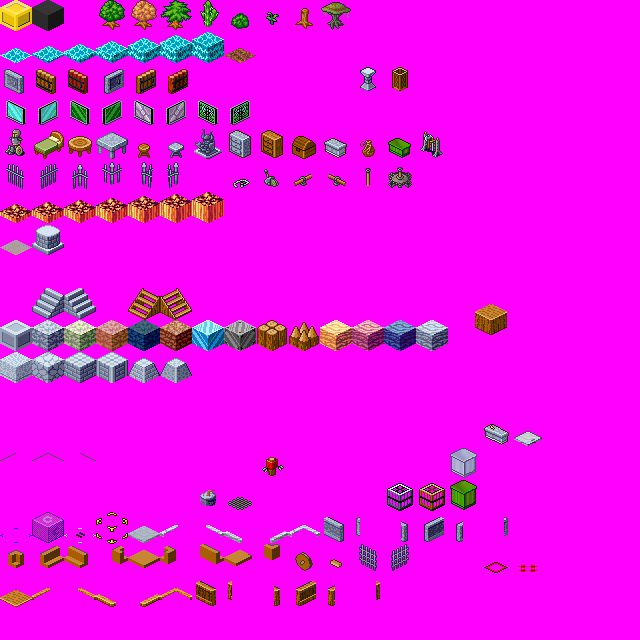
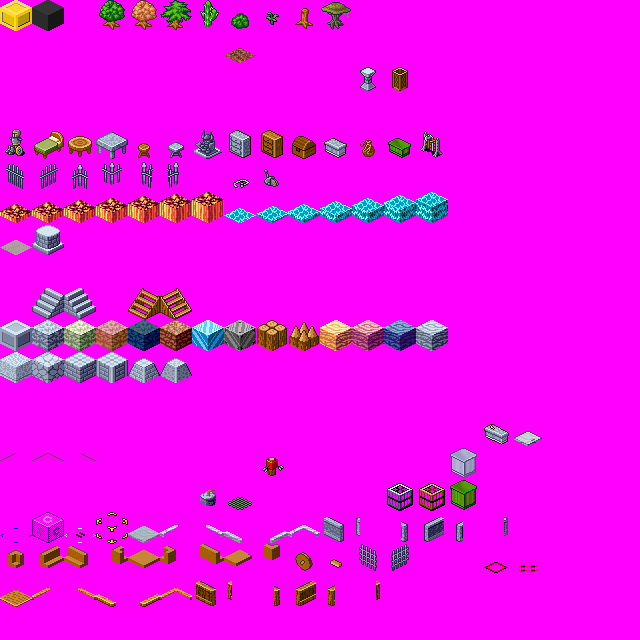
Rearranged liquids in objects.png. Moved doors and windows to doorsAndWindows.png. Changed around door and window configs. Fixed an error in gem windows.

diff --git a/SpriteMaps.h b/SpriteMaps.h
@@ -38,16 +38,7 @@ enum enumFloorSprites{
   SPRITEOBJECT_SAPLING = 8,
   SPRITEOBJECT_DEAD_TREE = 9,
   SPRITEOBJECT_TREE_TOWERCAP = 10,
-
-	SPRITEOBJECT_WATERLEVEL1 = 20,
-	SPRITEOBJECT_WATERLEVEL2 = 21,
-	SPRITEOBJECT_WATERLEVEL3 = 22,
-	SPRITEOBJECT_WATERLEVEL4 = 23,
-	SPRITEOBJECT_WATERLEVEL5 = 24,
-	SPRITEOBJECT_WATERLEVEL6 = 25,
-	SPRITEOBJECT_WATERLEVEL7 = 26,
 	
-
 	SPRITEOBJECT_DOORROCK = 40,
 	SPRITEOBJECT_DOORWOOD = 41,
   SPRITEOBJECT_DOORWOOD_WILLOW = 42,
@@ -76,6 +67,13 @@ enum enumFloorSprites{
 	SPRITEOBJECT_WATERLEVEL5_LAVA = 124,
 	SPRITEOBJECT_WATERLEVEL6_LAVA = 125,
 	SPRITEOBJECT_WATERLEVEL7_LAVA = 126,
+	SPRITEOBJECT_WATERLEVEL1 = 127,
+	SPRITEOBJECT_WATERLEVEL2 = 128,
+	SPRITEOBJECT_WATERLEVEL3 = 129,
+	SPRITEOBJECT_WATERLEVEL4 = 130,
+	SPRITEOBJECT_WATERLEVEL5 = 131,
+	SPRITEOBJECT_WATERLEVEL6 = 132,
+	SPRITEOBJECT_WATERLEVEL7 = 133,
 
 	SPRITEOBJECT_PAVEDFLOOR = 140,
 	SPRITEOBJECT_COLUMN = 141,
@@ -188,5 +186,5 @@ int GetFloorSpriteMap(int in, int matIndex);
 int GetUpStairTypeMap(int in, bool mirrored);
 int GetDownStairTypeMap(int in);
 int GetRampMaterialTypeMap(int in);
-int GetWallSpriteVegitation( VegetationType type, int index);
+int GetSpriteVegitation( VegetationType type, int index);
 

diff --git a/Block.cpp b/Block.cpp
@@ -88,7 +88,7 @@ void Block::Draw(BITMAP* target){
 
 	//vegitation
 	if(tree.index > 0 || tree.type > 0){
-    int spriteNum =  GetWallSpriteVegitation( (VegetationType) getVegetationType( this->floorType ), tree.index );
+    int spriteNum =  GetSpriteVegitation( (VegetationType) getVegetationType( this->floorType ), tree.index );
     DrawSpriteFromSheet( spriteNum, target, IMGObjectSheet, drawx, drawy );
 	}
 

diff --git a/SpriteMaps.cpp b/SpriteMaps.cpp
@@ -590,7 +590,7 @@ int GetRampMaterialTypeMap(int in){
 }
 
 
-int GetWallSpriteVegitation( VegetationType type, int index){
+int GetSpriteVegitation( VegetationType type, int index){
   switch(type){
   case TREE_OK:
     switch(index){

diff --git a/MapLoading.h b/MapLoading.h
@@ -10,6 +10,4 @@ void reloadDisplayedSegment();
 void DisconnectFromDF();
 bool IsConnectedToDF();
 
-WorldSegment* ReadMapSegment(int x, int y, int z, int sizex, int sizey, int sizez);
-
 extern memory_info dfMemoryInfo;
